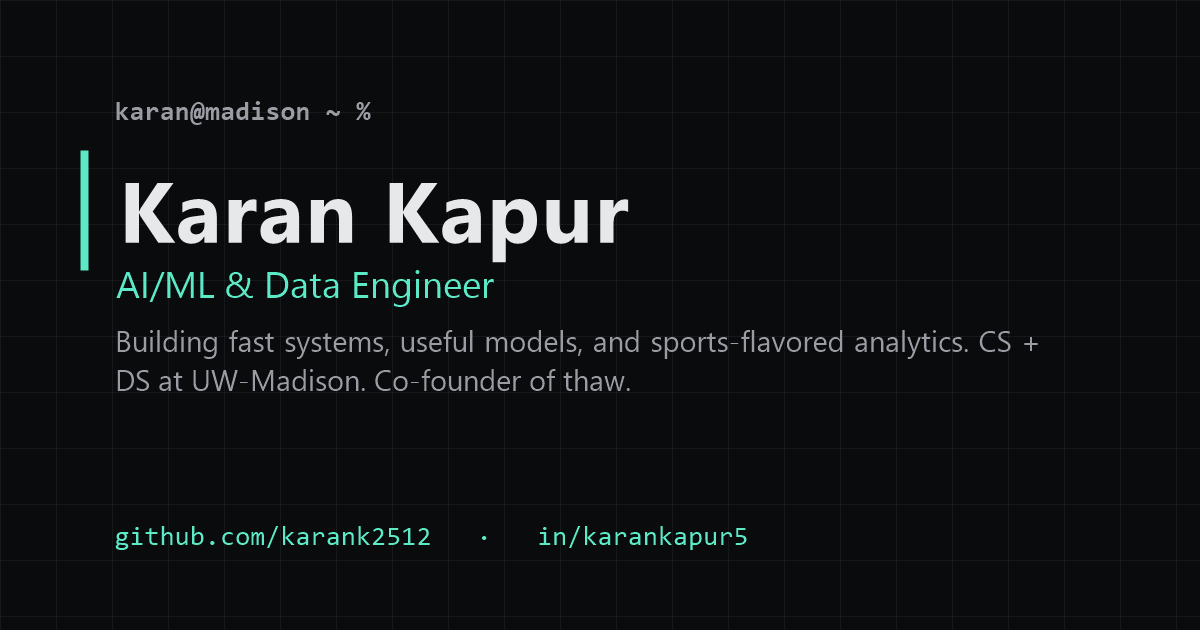
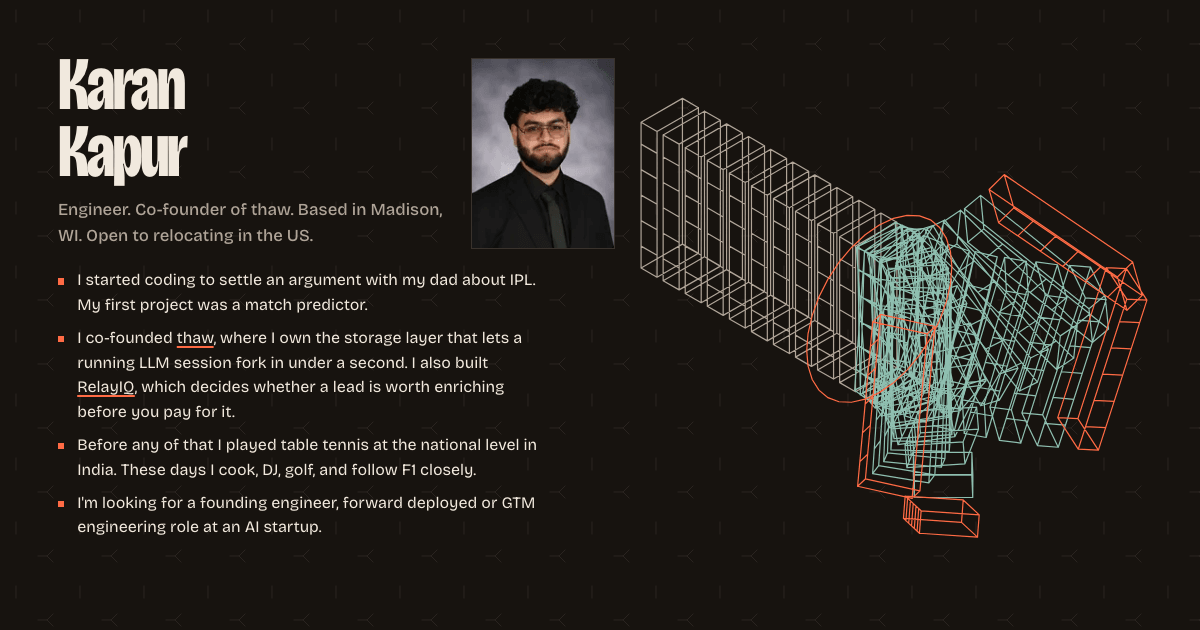
seo: sitemap, Person structured data, author meta, v3 OG image
Google has no page from karankapur.com in its index. The site had no
sitemap and nothing pointing a crawler at one, no structured data tying
the name to the roles and profiles, and a social preview still rendered
from v2 with the old "AI/ML & Data Engineer" line.

- @astrojs/sitemap writes sitemap-index.xml at build; robots.txt points
  at it. The noindex 404 page is filtered out.
- Base.astro takes a head slot. index.astro fills it with an author meta
  tag and one application/ld+json block: a ProfilePage whose mainEntity
  is a Person (name, url, job title at thaw, UW-Madison, Madison WI,
  GitHub and LinkedIn as sameAs). Facts come from the profile and
  experience content; no number is claimed there.
- public/og-image.png regenerated from the v3 hero at 1200 x 630 with
  the header, HUD and buttons row hidden, as a palette PNG (88 KB).
- One Playwright test pins robots, both sitemap files, the canonical
  link, the single h1, the structured data and the 404 page's noindex.
- DESIGN.md records the sitemap, the structured data and the OG render.

astro check clean, 77 Playwright tests pass at 390, 820 and 1440, all
Lighthouse budgets hold.

diff --git a/tests/site.spec.ts b/tests/site.spec.ts
@@ -93,6 +93,38 @@ test.describe('home page', () => {
     await expect(page.locator('button.snd, #snd, #snd-touch, #snd-prev, #snd-next, #np, #sleeve, #player, #widget')).toHaveCount(0);
   });
 
+  test('search engines get a sitemap, a canonical link and one Person structured-data block', async ({ page, request }) => {
+    const robots = await request.get('/robots.txt');
+    expect(robots.ok()).toBe(true);
+    expect(await robots.text()).toContain('Sitemap: https://karankapur.com/sitemap-index.xml');
+    const index = await request.get('/sitemap-index.xml');
+    expect(index.ok()).toBe(true);
+    expect(await index.text()).toContain('https://karankapur.com/sitemap-0.xml');
+    const sitemap = await request.get('/sitemap-0.xml');
+    expect(sitemap.ok()).toBe(true);
+    const urls = (await sitemap.text()).match(/<loc>([^<]+)<\/loc>/g) ?? [];
+    expect(urls).toEqual(['<loc>https://karankapur.com/</loc>']);
+
+    await page.goto('/');
+    await expect(page.locator('link[rel="canonical"]')).toHaveAttribute('href', 'https://karankapur.com/');
+    await expect(page.locator('meta[name="robots"]')).toHaveCount(0);
+    await expect(page.locator('h1')).toHaveCount(1);
+    const blocks = page.locator('script[type="application/ld+json"]');
+    await expect(blocks).toHaveCount(1);
+    const data = JSON.parse((await blocks.textContent()) ?? '{}');
+    expect(data['@type']).toBe('ProfilePage');
+    expect(data.mainEntity['@type']).toBe('Person');
+    expect(data.mainEntity.name).toBe('Karan Kapur');
+    expect(data.mainEntity.sameAs).toEqual(['https://github.com/karank2512', 'https://www.linkedin.com/in/karankapur5']);
+    // no number is claimed in structured data; receipts live on the page
+    expect(JSON.stringify(data)).not.toMatch(/\d+(\.\d+)?\s?(GB\/s|s\b|×|x\b)/);
+
+    const notFound = await page.goto('/404.html');
+    expect(notFound?.ok()).toBe(true);
+    await expect(page.locator('meta[name="robots"]')).toHaveAttribute('content', 'noindex');
+    await expect(page.locator('link[rel="canonical"]')).toHaveCount(0);
+  });
+
   test('sections run hero, experience, projects, contact; leadership only when it has entries', async ({ page }) => {
     await page.goto('/');
     const ids = await page.$$eval('main > section', (els) => els.map((el) => el.id));

diff --git a/DESIGN.md b/DESIGN.md
@@ -108,7 +108,7 @@ Banned: count-ups, typing effects, cursor followers, parallax on text, scroll hi
 | 520 and below | Header stacks name over nav; `--head` grows to 5.6rem for the sticky tour. The headshot at 6rem sits beside the name and the tagline moves under both. "Contact me" and the playlist link share one row, half the width each, 4rem tall, inside the first 844px at 390 wide. HUD one column. Receipt rows one column with the value under the label. |
 | `pointer: coarse` | The turntable is hidden and "Contact me" and the playlist link are 4rem tall; device pixel ratio is capped at 1.5 instead of 2; vertical touch gestures scroll the page, horizontal ones orbit the hero. |
 
-Images declare width and height. The only raster image is the headshot, built from `src/assets/pro-headshot.jpg` by the image pipeline (webp, 1x and 2x). The OG image is 1200 x 630 in `public/og-image.png` (still the v2 render; regenerate before launch).
+Images declare width and height. The only raster image is the headshot, built from `src/assets/pro-headshot.jpg` by the image pipeline (webp, 1x and 2x). The OG image is 1200 x 630 in `public/og-image.png`: a render of the v3 hero at that size with the header, the HUD and the buttons row hidden, so a link preview shows the name, the headshot, the tagline, the intro and the lattice drawing. Regenerate it whenever the hero copy changes.
 
 ## 9. Agent prompt guide
 
@@ -121,6 +121,7 @@ When asked to change the site:
 - No audio plays on the site, and no third-party script or iframe is ever in the DOM or on the wire (DECISIONS.md, "Music, superseded"). The only thing about music is the playlist link in the hero; its label and URL are in `src/content/profile/main.json`. The turntable and its bars are decoration: never describe them as playing or reacting to anything, and never make them a control.
 - Every animation must have a one-line job in section 7, use transform, opacity or clip-path, pause when off screen if it loops, and be covered by the reduced-motion block with a finished static state.
 - 3D work follows section 10. Geometry is procedural and lives in `src/scenes`; never add a model file or a texture image. A new card scene exports `mount(SceneOptions)` and is registered in the page script's loader map by project id. A new Experience or Leadership entry needs a scene in `src/scenes/roles.ts` and a drawing in `Mark.astro`, both keyed by the entry's file name without its order prefix; an entry without one keeps an empty tile, so do not ship that.
+- Search engines: the build writes `sitemap-index.xml` (the `@astrojs/sitemap` integration in `astro.config.mjs`) and `public/robots.txt` points at it. The home page carries one `application/ld+json` block, a `ProfilePage` whose `mainEntity` is a `Person`, built in `index.astro` from the profile and experience content: no number goes in it. The 404 page is `noindex` and has no canonical link.
 - Run `npm run check`, `npm run build`, `npm run test:e2e` and `npm run lhci` before calling work done. The budgets in `lighthouserc.cjs` are the exit criteria. The script budget there covers the one page script; the three.js chunks load only on hardware WebGL, so the Lighthouse run is pinned to a software rasterizer (`--disable-gpu --use-angle=swiftshader`), the same condition CI without a GPU and the Playwright run have, and they sit outside that run (see section 10). The new headless mode on a Mac with a GPU would otherwise find hardware WebGL and fetch the hero scene after idle.
 
 ## 10. WebGL rules
